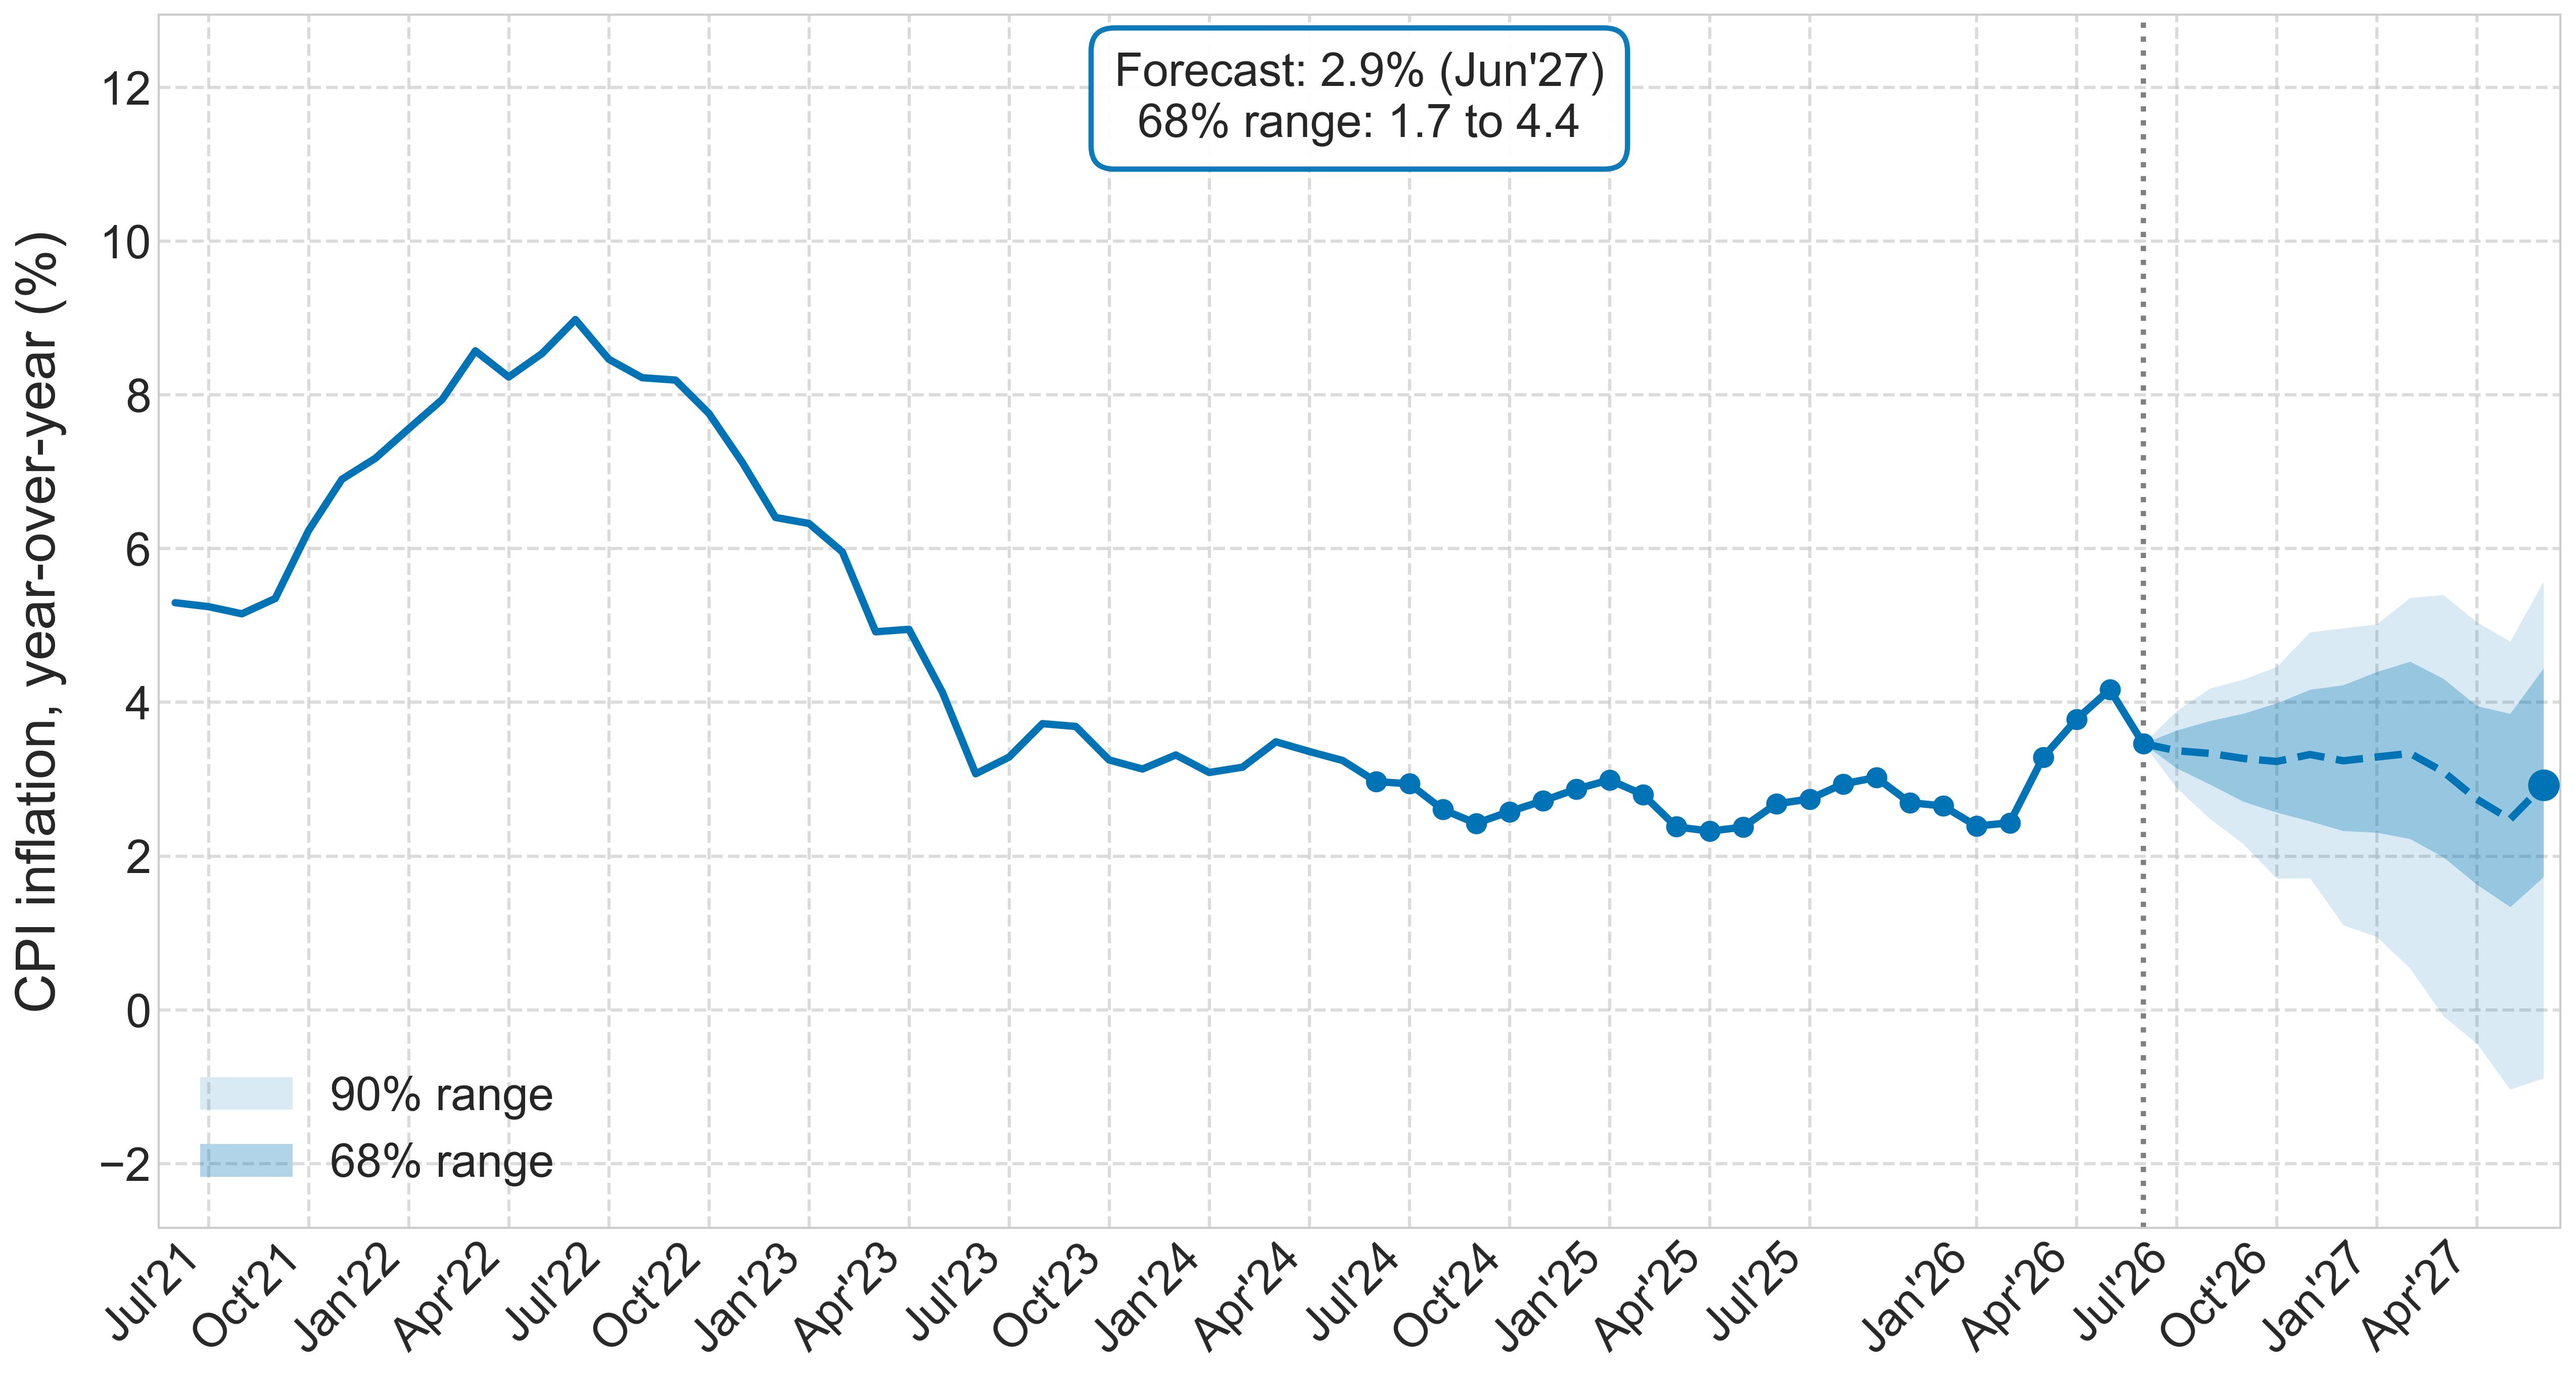
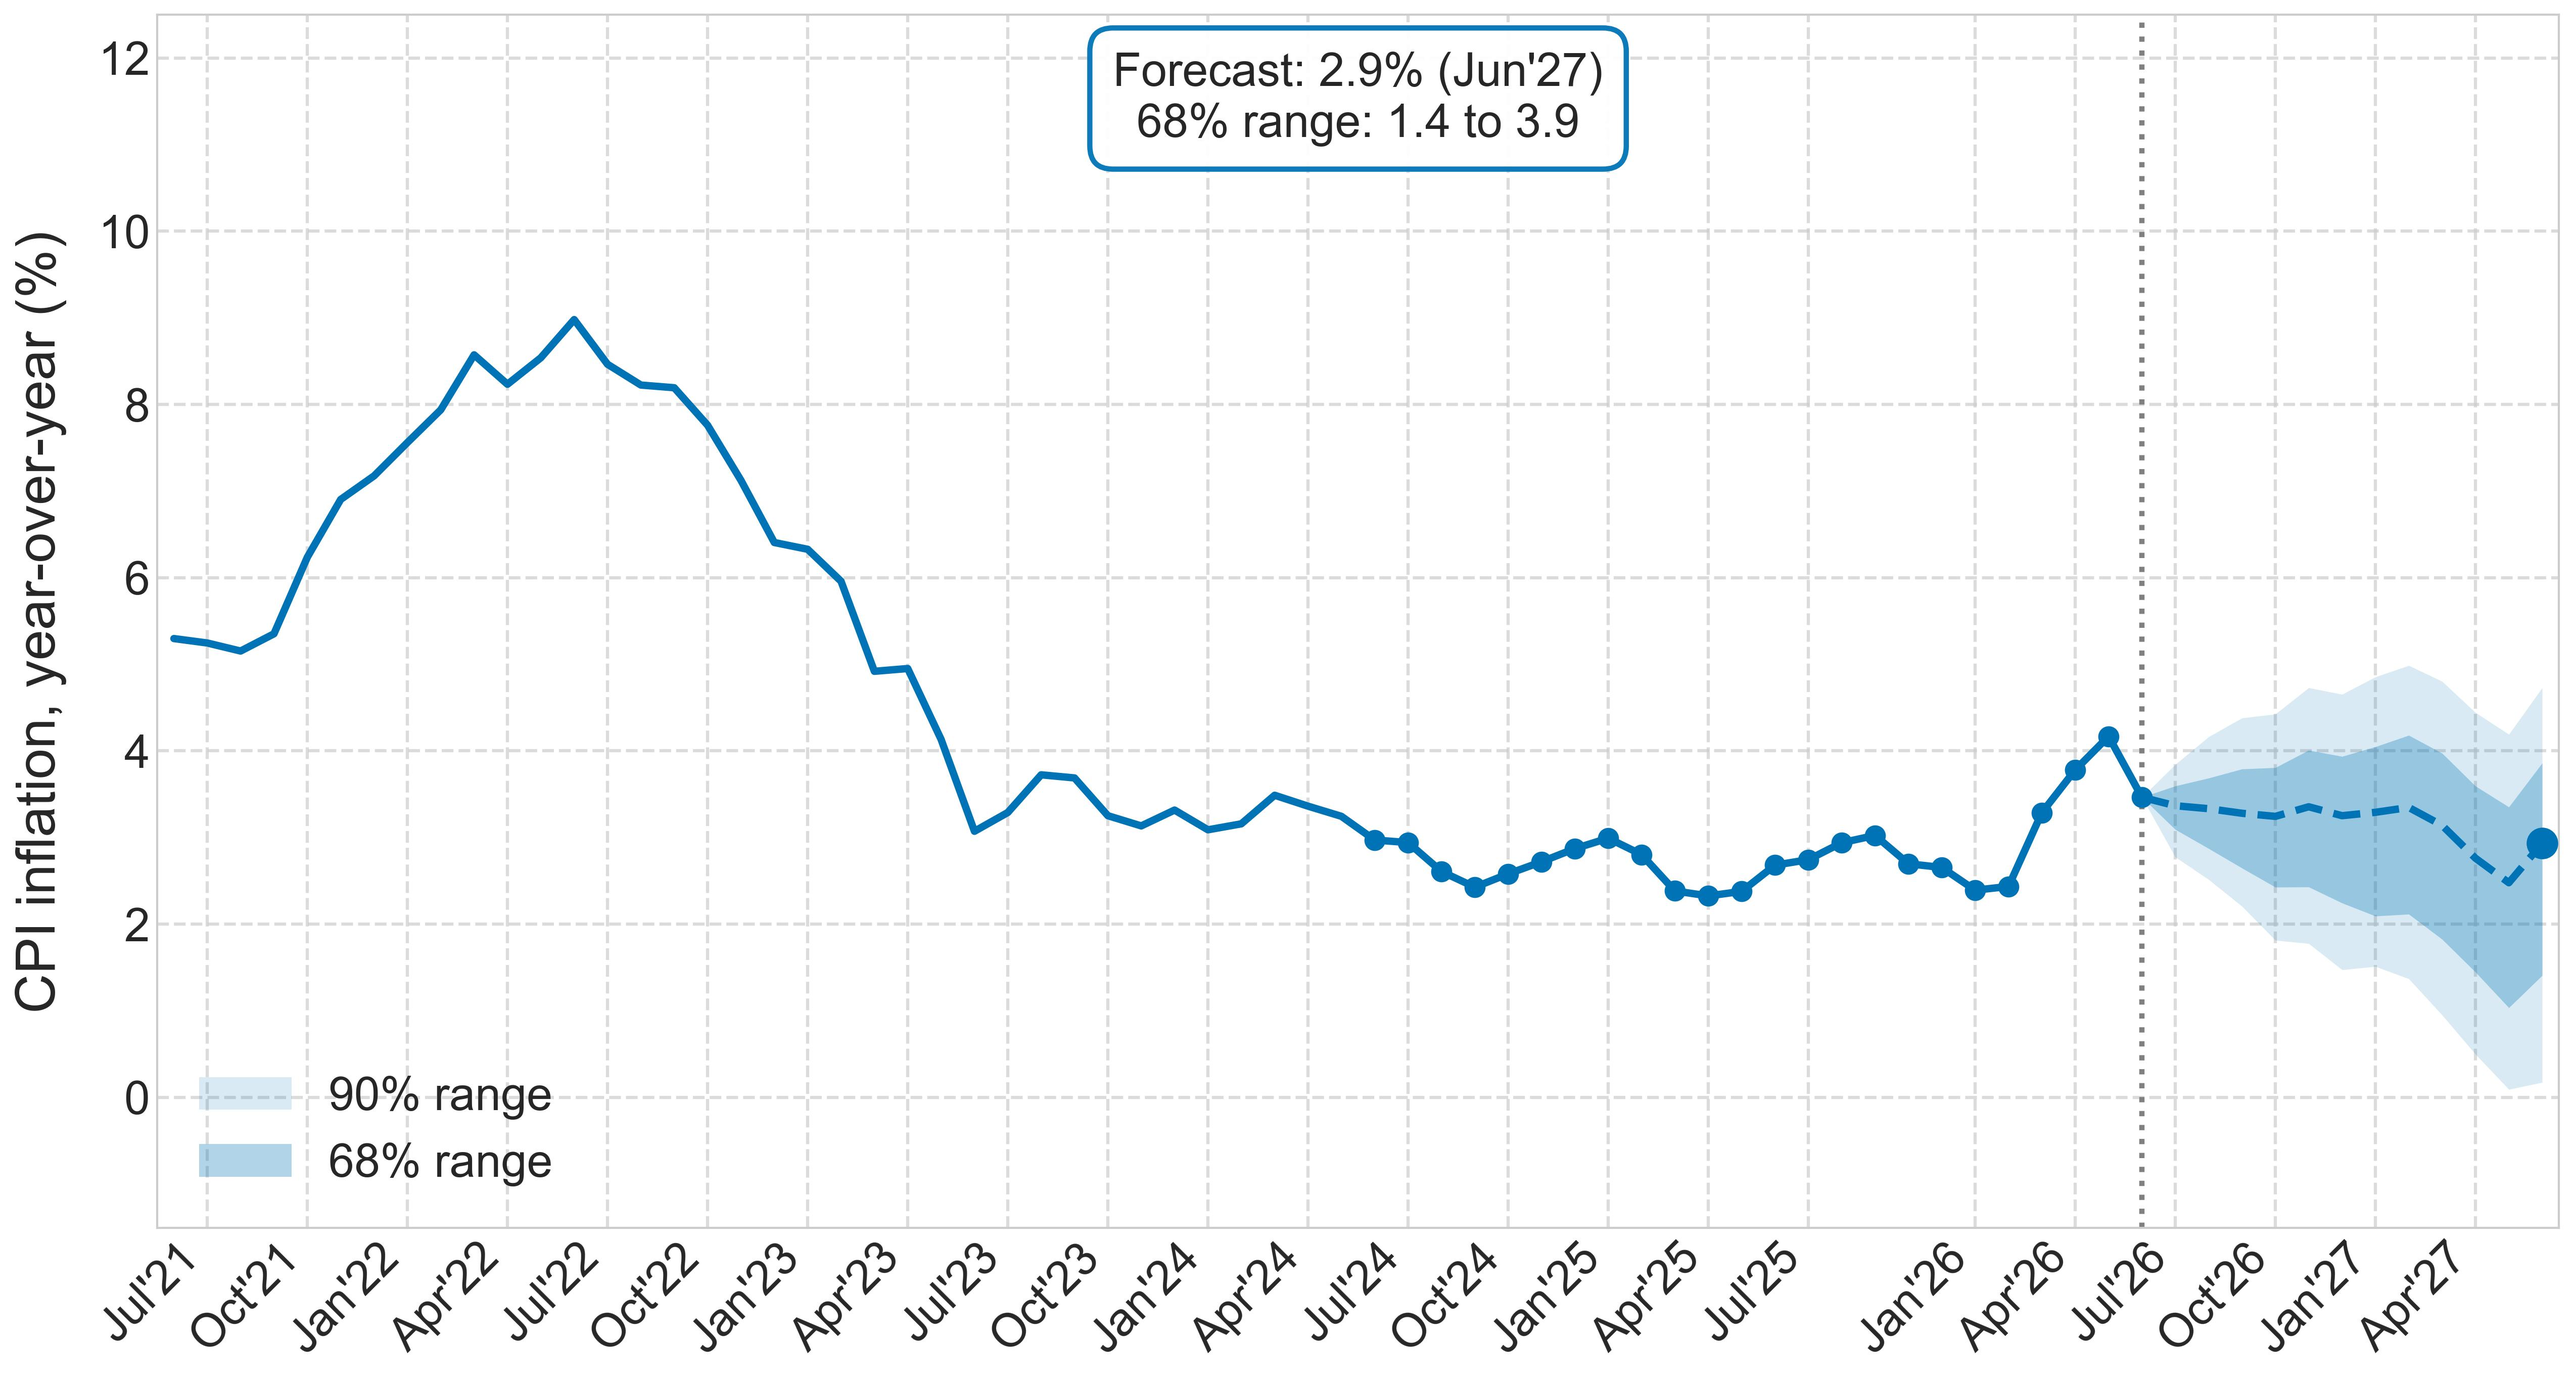
Update graphs (August 2026)

diff --git a/index.html b/index.html
@@ -208,27 +208,27 @@
         <div class="forecast-value">+2.9%</div>
         <div class="forecast-name">Inflation</div>
         <div class="forecast-sub">prices 12 months from now</div>
-        <div class="forecast-range">68% range: 1.7% to 4.4%</div>
+        <div class="forecast-range">68% range: 1.4% to 3.9%</div>
       </div>
       <div class="forecast-tile">
-        <div class="forecast-value">4.5%</div>
+        <div class="forecast-value">4.6%</div>
         <div class="forecast-name">Unemployment</div>
         <div class="forecast-sub">12 months from now</div>
-        <div class="forecast-range">68% range: 4.4% to 5.3%</div>
+        <div class="forecast-range">68% range: 3.8% to 4.7%</div>
       </div>
       <div class="forecast-tile">
         <div class="forecast-value">+2.5%</div>
         <div class="forecast-name">GDP growth</div>
         <div class="forecast-sub">next 4 quarters, annualized</div>
-        <div class="forecast-range">68% range: 1.0% to 5.0%</div>
+        <div class="forecast-range">68% range: -0.1% to 4.0%</div>
       </div>
       <div class="forecast-tile">
-        <div class="forecast-value">+0.4%</div>
+        <div class="forecast-value">+0.3%</div>
         <div class="forecast-name">Real median wage growth</div>
         <div class="forecast-sub">12 months from now</div>
-        <div class="forecast-range">68% range: -1.1% to 2.3%</div>
+        <div class="forecast-range">68% range: -1.7% to 1.9%</div>
       </div>
-      <div class="forecast-stamp">Forecasts made with data through June 2026. <a href="methodology.html">How these forecasts are made</a>.</div>
+      <div class="forecast-stamp">Forecasts made with data through June 2026. <a href="methodology.html">Detailed methodology here</a> &middot; <a href="methodology.pdf">technical note (PDF)</a>.</div>
       <!-- FORECAST:END -->
       </div>
     </section>
@@ -416,7 +416,7 @@
   </a>
 </div>
       -->
-      Data: Bureau of Labor Statistics, Bureau of Economic Analysis, Federal Reserve Board, U.S. Census Bureau, University of Michigan Survey of Consumers, Freddie Mac, U.S. Treasury, U.S. Department of Labor. Updated July 2026
+      Data: Bureau of Labor Statistics, Bureau of Economic Analysis, Federal Reserve Board, U.S. Census Bureau, University of Michigan Survey of Consumers, Freddie Mac, U.S. Treasury, U.S. Department of Labor. Updated August 2026
       <br>Forecast methodology: <a href="methodology.pdf">technical note (PDF)</a> &middot; <a href="methodology.html">plain-language explanation</a>
     </footer>
   </div>
